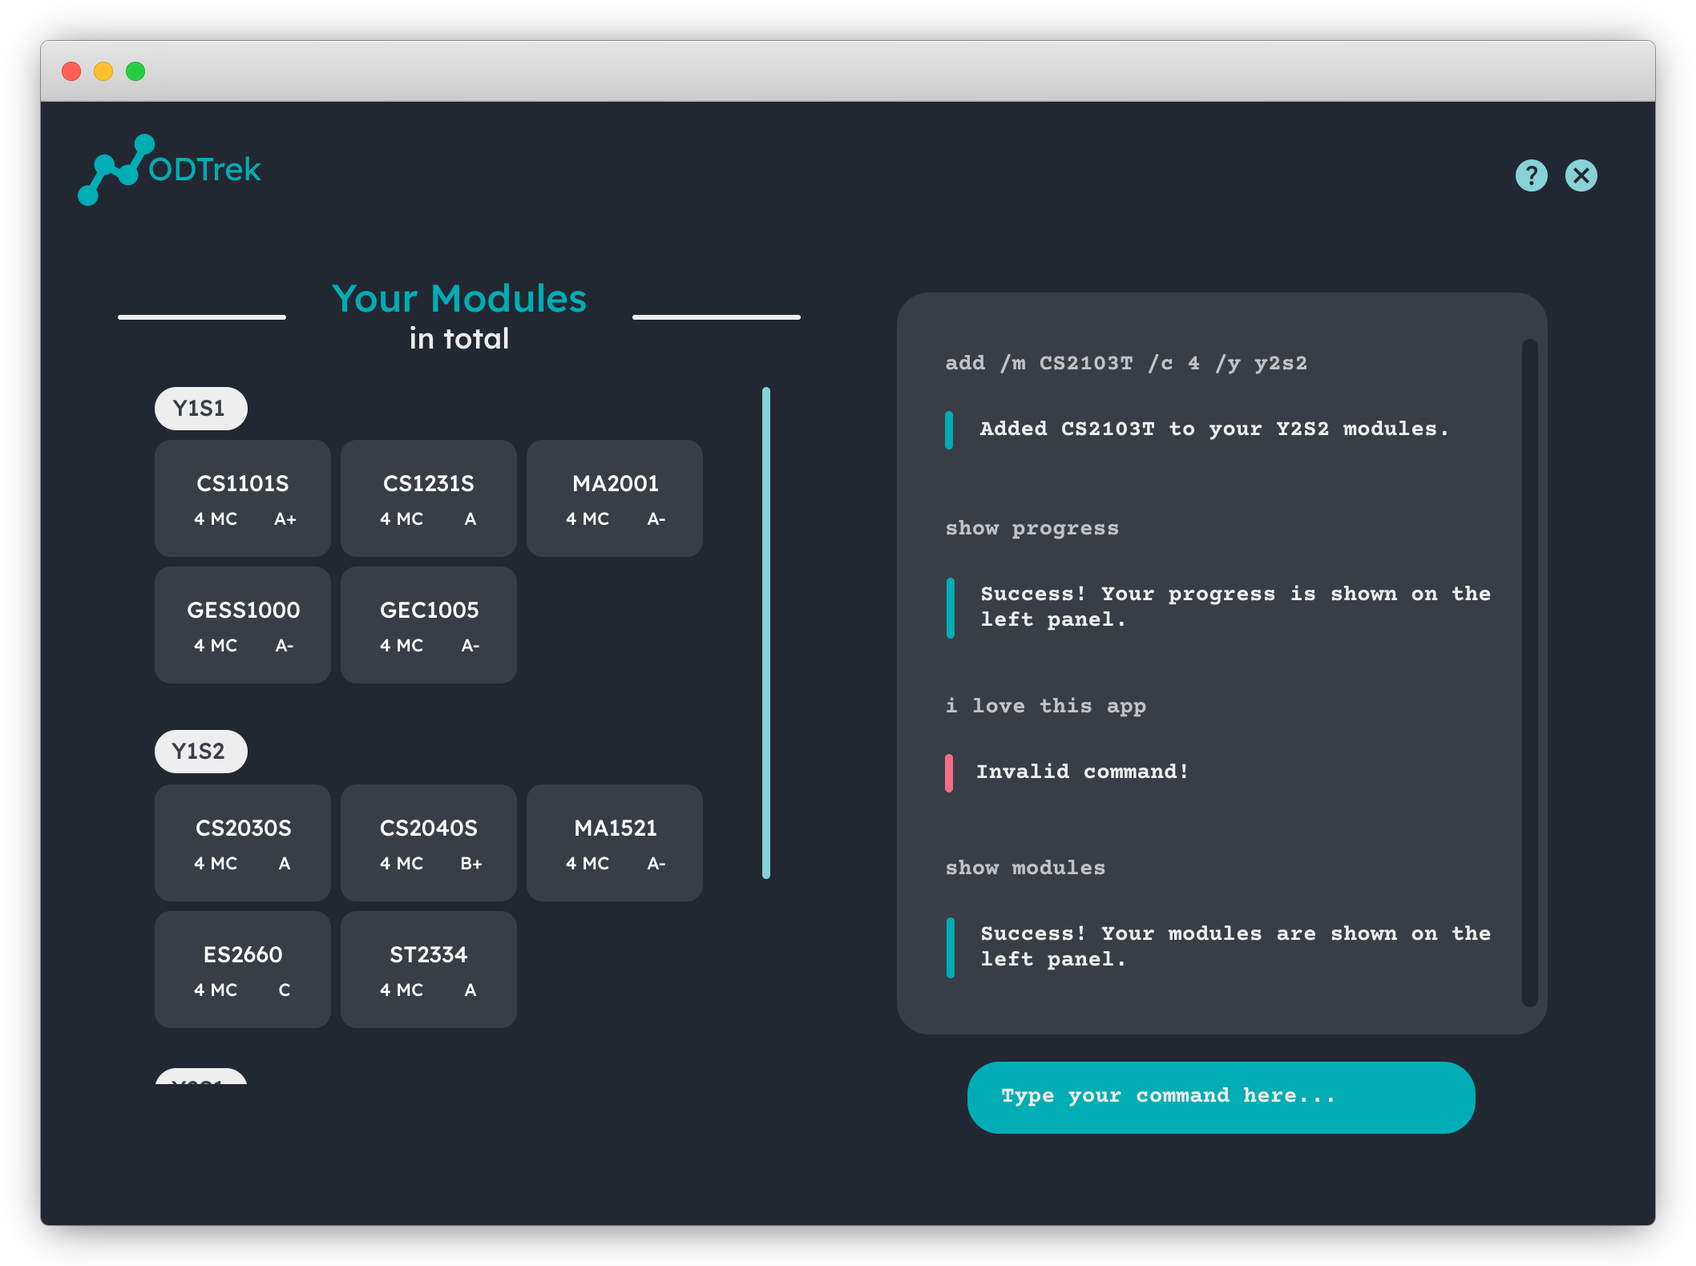
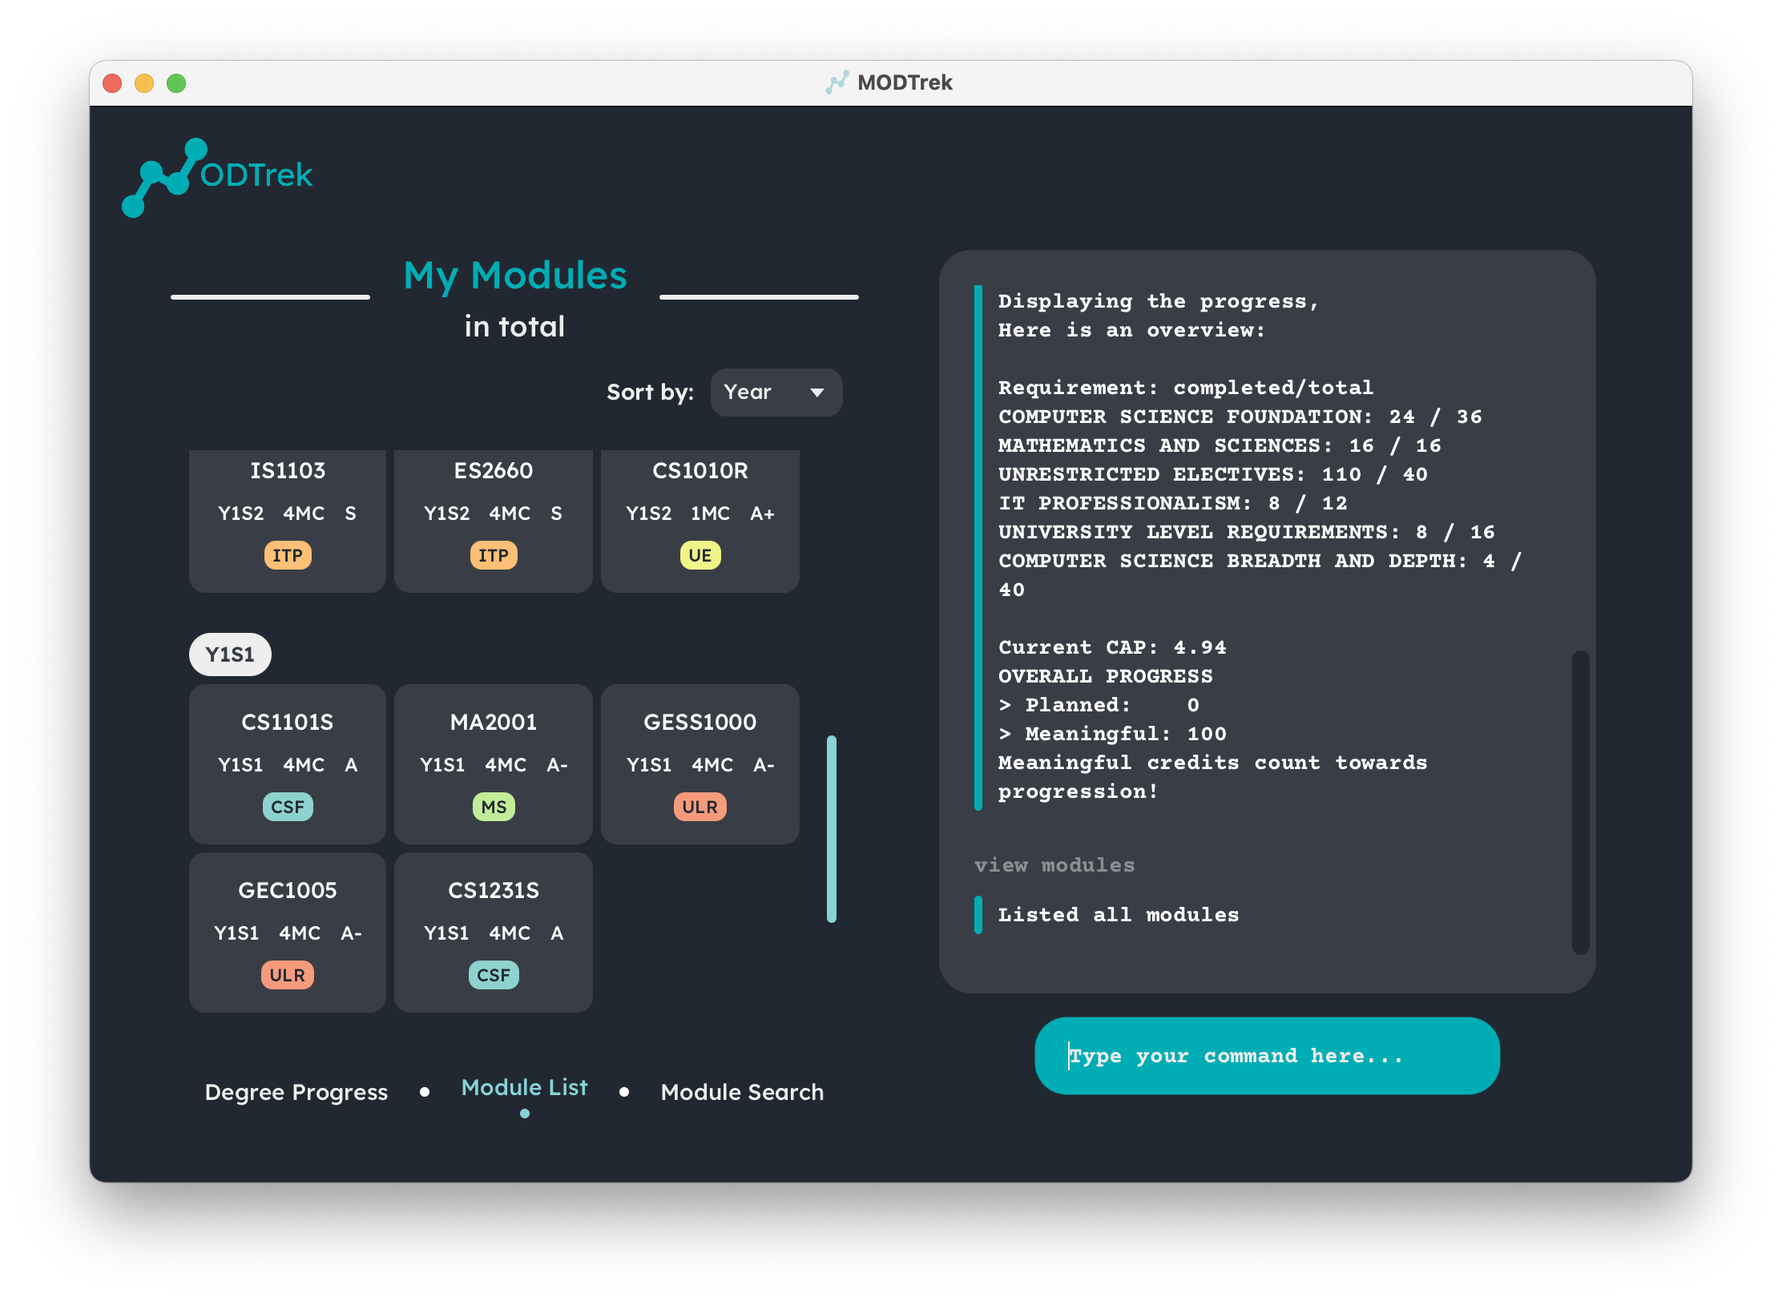
Updated UG content and pictures

diff --git a/docs/UserGuide.md b/docs/UserGuide.md
@@ -6,133 +6,246 @@ title: User Guide
 <br>
 <img src="images/logo.png" width="200px"><br>
 
-ModTrek is a desktop application for managing a typical NUS Computer Science student’s modules and degree progression, optimised for use via a Command Line Interface (CLI). The app provides a convenient platform for students to easily access and update their modules within presses of a keyboard.<br><br>
+**MODTrek** is a desktop application for managing a typical NUS Computer Science student’s modules and degree progression, optimised for use via a Command Line Interface (CLI). The app provides a convenient platform for students to easily access and update their modules within presses of a keyboard.<br><br>
 
 --------------------------------------------------------------------------------------------------------------------
 
-## Table of Contents
+## Table of Contents <a name="toc"></a>
 
-1. [Quick Start](#quick-start)
-2. [Features](#features)<br>
-   2.1 [Add a module:](#add-module) `add`<br>
-   2.2 [Remove a/all module:](#delete-module) `delete`<br>
-   2.3 [Change module details:](#edit-module) `edit`<br>
-   2.4 [Tag a module:](#tag-module) `tag`<br>
-   2.5 [Find modules by keyword:](#find-module) `find`<br>
-   2.6 [Sort all modules:](#sort-module) `sort`<br>
-   2.7 [Toggle between module lists and progress:](#change-view) `view`<br>
-   2.8 [Exiting the program:](#exit-app) `exit`<br>
-   2.9 [Saving the data](#save-data)<br>
-   2.10 [Editing the data file](#edit-data)
-3. [Frequently Asked Questions (FAQ)](#faq)
-4. [Command Summary](#command-summary)
+1. [How To Use This Guide](#how-to)
+2. [Quick Start](#quick-start)
+3. [GUI Overview](#gui-overview)
+4. [Features](#features)<br>
+   4.1 [Add a module:](#add-module) `add`<br>
+   4.2 [Remove a/all module:](#delete-module) `delete`<br>
+   4.3 [Change module details:](#edit-module) `edit`<br>
+   4.4 [Tag a module:](#tag-module) `tag`<br>
+   4.5 [Find modules by keyword:](#find-module) `find`<br>
+   4.6 [Sort all modules:](#sort-module) `sort`<br>
+   4.7 [Toggle between module lists and progress:](#change-view) `view`<br>
+   4.8 [Exiting the program:](#exit-app) `exit`<br>
+   4.9 [Saving the data](#save-data)<br>
+   4.10 [Editing the data file](#edit-data)
+5. [Frequently Asked Questions (FAQ)](#faq)
+6. [Command Summary](#command-summary)
 
 --------------------------------------------------------------------------------------------------------------------
 
-## 1. Quick Start <a name="quick-start"></a>
+## 1. How to Use This Guide <a name="how-to"></a>
+
+Not sure how you can begin using **MODTrek**? This user guide will give you all the information you will need so
+that you can utilise **MODTrek** to its full potential.
+
+To get started, we have prepared a [Quick Start](#quick-start) section in this user guide to ensure that you will
+have a seamless setting up process.
+
+You can also familiarize yourself with the GUI in our [GUI Overview](#gui-overview) section where you will get a 
+quick breakdown of our GUI.
+
+Not sure what features **MODTrek** has or how to use them? Our [Features](#features) section provides an in depth
+explanation of **MODTrek** can do and how you can use them effectively. Alternatively, you can go to our [Command Summary](#command-summary)
+section for a quick overview of all the commands.
+
+Commonly asked questions and answers can be found in our [FAQ](#faq) but if you can still unable to find what you are
+looking for, feel free to contact us at our [GitHub](https://github.com/AY2223S2-CS2103T-T13-1/tp).
+
+Before going any further, here are some useful notations that you should know.
+
+**Tips**
+
+Tips are useful suggestions that will help you become a seasoned sprINT user more quickly.
+
+<div markdown="span" class="alert alert-primary">
+
+:bulb: **Tip:** Tips are useful information. They can give you a better experience with sprINT.
+</div>
+
+**Notes**
+
+Notes are important information that you should pay attention to when using sprINT.
+
+<div markdown="span" class="alert alert-info">
+
+:information_source: **Note:** Take notes when you see this icon.
+</div>
+
+**Caution**
+
+Cautions are in place to warn you of potential pitfalls new users may encounter.
+
+<div markdown="span" class="alert alert-warning">
+
+:exclamation: **Caution:** Stop and read carefully when you see this!
+</div>
+
+[Back to Table of Contents](#toc)
+
+--------------------------------------------------------------------------------------------------------------------
+
+## 2. Quick Start <a name="quick-start"></a>
 
 1. Ensure you have Java 11 or above installed in your Computer.
-1. Download `modtrek.jar` here. (To be inserted)
-1. Copy the file to the folder you want to use as the _home folder_ for ModTrek
-1. Open a command terminal, `cd` to the folder you put your jar file in, and use<br>`java -jar modtrek.jar` to run the application
-1. A GUI similar to the below should appear in a few seconds.
-1. Type commands within the command line interface (CLI) and press enter to execute it. For a list of executable commands, refer to the [Features / Commands Section](#features).
-![Ui QuickStart](images/Ui-quickstart2.png)
+2. Download `modtrek.jar` [here](https://github.com/AY2223S2-CS2103T-T13-1/tp/releases).
+3. Copy the file to the folder you want to use as the _home folder_ for **MODTrek**.
+4. Lauch the app by double-clicking the file or by navigating to the file using your command terminal, and
+running `java -jar modtrek.jar` in your terminal. 
+5. A GUI similar to the below should appear in a few seconds. ![Ui QuickStart](images/Ui-quickstart2.png)
+6. Type commands within the command line interface (CLI) and press enter to execute it. For a list of executable commands, refer to the [Features](#features) section.
+
+[Back to Table of Contents](#toc)
 
 --------------------------------------------------------------------------------------------------------------------
 
-## 2. Features <a name="features"></a>
+## 3. GUI Overview <a name="gui-overview"></a>
+
+The following is an annotated breakdown of **MODtrek's** GUI:
+![UI Breakdown](images/Ui-breakdown.png)
+
+1. Command Input: User inputs commands here.
+2. Command Screen: Relevant messages from the application will be displayed here. This includes success messages, error
+messages and results from the commands. 
+3. Results Section: This panel shows the degree progression of the user by default. This panel can be changed using the `view` command
+to toggle between the module list in **MODTrek** or the user's degree progression as well as using the `sort` and `find` command when making 
+a query on the module list.
+
+[Back to Table of Contents](#toc)
+
+--------------------------------------------------------------------------------------------------------------------
+
+## 4. Features <a name="features"></a>
 
 <div markdown="block" class="alert alert-info">
 
-**Notes about command format:**<br>
-- Words enclosed by `<>` are the parameters to be supplied by the user.<br>
-   - E.g. in `add /m <code> /c <credits> /y <year-semester> /g <grade> /t <tag>...`, `<code>`, `<credits>`, `<year-semester>`, `<grade>`, `<tag>` are parameters which can be used as `add /m CS2103T /c 4 /y Y2S2 /g A+ /t University Level Requirements /t Computer Science Foundation`
-- Extraneous parameters for commands that do not take in parameters (such as `list`, `exit` and `delete all`) will be ignored.
-- Parameters encapsulated in between brackets ('()') are optional.
+:information_source: **Notes about command format:**<br>
+
+* Words enclosed by `<>` are the parameters to be supplied by the user.<br>
+E.g. in `add /m <code>`, `<code>` is a parameter which can be replaced by `CS2030S` to give the command `add /m CS2030S`.
+  
+* Parameters encapsulated in between round brackets are optional.<br>
+E.g. in `delete /m <code1> (/m <code2>)` can be used as `delete /m CS1101S /m CS1231` or as `delete /m CS1101S`.
+
+* Parameters with `...` after them can be used 1 or more times.<br>
+E.g. in `(/t <tag>...)` can be used as `/t ULR /t CSF`, `/t ULR`.
+
+* Extraneous parameters for commands that do not take in parameters (such as `list`, `exit` and `delete all`) will be ignored.
+E.g. if the command specifies `list 123`, it will be interpreted as `list`
 </div>
 
 ### MODTrek supports the following features:
 
-#### 2.1 Add a Module : `add` <a name="add-module"></a>
+#### 4.1 Add a Module : `add` <a name="add-module"></a>
 
 Adds a module to the module list. Modules must be distinct.
 
-**Command syntax:** `add /m <code> /c <credits> /y <year-semester> (/g <grade>) (/t <tag>...)`
+**Syntax:** `add /m <code> /c <credits> /y <year-semester> (/g <grade>) (/t <tag>...)`
 
 Additional details:
 * `<code>` refers to the module code
 * `<credits>` refers to the module's modular credits
-* `<year-semester>` refers to the year and semester the module is taken. E.g y1s2, y3st1
+* `<year-semester>` refers to the year and semester the module is taken. E.g. y1s2, y3st1
 * `<grade>` refers to the grade obtained for the module. Range from A+ to U.
-* `<tag>` refers to the requirement the modules fulfils.<br> This includes:
+* `<tag>` refers to the requirement the modules fulfils. This includes:
    * `ULR` University Level Requirements
    * `CSF` Computer Science Foundations
    * `CSBD` Computer Science Breadth & Depth
    * `UE` Unrestricted Electives
    * `ITP` IT Professionalism
    * `MS` Math & Science
-   
-:exclamation: For `...`, specify one or more tags to be added, separated by space (' ').
 
-**Example:** `add /m CS2103T /c 4 /y y2s2 /g A /t ULR`
+<div markdown="span" class="alert alert-primary">
 
-#### 2.2 Delete a Module : `delete` <a name="delete-module"></a>
+:bulb: **Tip:** A module can have more than 1 tags (including 0).
+</div>
+
+**Example:** 
+* `add /m CS2103T /c 4 /y y2s2 /g A /t ULR`
+* `add /m GESS1025 /c 4 /y y1s2`
+
+[Back to Table of Contents](#toc)
+
+#### 4.2 Delete a Module : `delete` <a name="delete-module"></a>
 
 Deletes all/the specified module(s) from the module list.
 
-**Command syntax:** <br><br>_To delete specific modules:_ `delete /m <code1> (/m <code2>) ...` <br><br> :exclamation: For `...`, specify one or more module codes of modules to be deleted, separated by space (' '). <br><br>_To delete all modules:_ `delete all`
+**Syntax:**
+* _To delete specific modules:_ `delete /m <code1> (/m <code2>...)`
+* _To delete all modules:_ `delete all`
 
-**Example:** `delete /m CS2100 /m CS2040S`
+<div markdown="span" class="alert alert-primary">
 
-#### 2.3 Edit a Module : `edit` <a name="edit-module"></a>
+:bulb: **Tip:** You can use the same instance of the delete command to delete more than 1 module at a time but at least
+1 module to be deleted must be specified.
+</div>
+
+**Example:** 
+* `delete /m CS2100 /m CS2040S`
+* `delete /m MA1521`
+* `delete all`
+
+[Back to Table of Contents](#toc)
+
+#### 4.3 Edit a Module : `edit` <a name="edit-module"></a>
 
 Edits an existing module in the module list.
 
-**Command syntax:** `edit <code> ...`
+**Syntax:** `edit <existing code> <toEdit>...`
 
-_Specify one or more parameters in_ `...` :
+Specify one or more parameters in `<toEdit>` that you want to edit. This can be:
 * `/m <new code>`
-* `/c <credits>`
+* `/c <credit>`
 * `/y <year-semester>`
 * `/g <grade>`
 * `/t <tag>`
 
-**Example:** `edit ES2660 /m CS2101 /g B+`
+<div markdown="span" class="alert alert-warning">
 
 :exclamation: Past data will be overridden and not be saved
+</div>
 
-#### 2.4 Tag a Module : `tag` <a name="tag-module"></a>
+**Example:** 
+* `edit ES2660 /m CS2101 /g B+ /t MS`
+* `edit CS2107 /y y3s1`
+
+[Back to Table of Contents](#toc)
+
+#### 4.4 Tag a Module : `tag` <a name="tag-module"></a>
 
 Tags a module to include or remove one or more degree requirements (e.g. University Level Requirements, Computer Science Foundation etc) that the module fulfils.<br>
-Refer to [2.1 Add a module](#add-module) for the available tags.
+Refer to [Add a module](#add-module) for the tags that you can use.
 
-**Command syntax:**
-* _To include tags:_ `tag /m <code> include <tag1> (<tag2>) ...`
-* _To remove tags:_ `tag /m <code> remove <tag1> (<tag2>) ...`
-
-:exclamation: For `...`, specify one or more tags to be included or removed, separated by space (' ').
+**Syntax:**
+* _To include tags:_ `tag <code> include <tag1> (<tag2>...)`
+* _To remove tags:_ `tag <code> remove <tag1> (<tag2>...)`
 
 **Example:**
 * `tag CS2030S include CSF`
 * `tag ES2660 remove ULR ITP`
 
-#### 2.5 Find modules by keyword : `find` <a name="find-module"></a>
+[Back to Table of Contents](#toc)
 
-Displays specific module(s) satisfying the search query (by code, credits, year-semester, and/or grade) and their details previously logged by the user.
+#### 4.5 Find modules by keyword(s) : `find` <a name="find-module"></a>
 
-**Command syntax:** `find (/m <code>) (/c <credits>) (/y <year-semester>) (/g <grade>)`
+Displays specific module(s) and their details previously logged by the user which satisfies the keyword(s) queried.
+
+**Syntax:** `find (/m <code>) (/c <credits>) (/y <year-semester>) (/g <grade>)`
+
+<div markdown="span" class="alert alert-primary">
+
+:bulb: **Tip:** Using more keywords will filter the results you want to find further.
+</div>
 
 **Example:**
 * `find /c 4 /g A+`
 * `find /y y2s2`
-* `find /m cs /g A+` ![Ui Find](images/Ui-find.png)
+* `find /m cs /g A+` ![Ui Find](images/Ui-find3.png)
 
-#### 2.6 Sort all modules : `sort` <a name="sort-module"></a>
+[Back to Table of Contents](#toc)
+
+#### 4.6 Sort all modules : `sort` <a name="sort-module"></a>
 
 Sort the modules according to the category indicated by the user.
 
-**Command syntax:** `sort <category>`
+**Syntax:** `sort <category>`
 
 Categories that modules can be sorted by are:
 * `/m` to sort by module code
@@ -144,31 +257,41 @@ Categories that modules can be sorted by are:
 **Example:** `sort /g`
 ![Ui Sort](images/Ui-sort.png)
 
-#### 2.7 Toggle screens : `view` <a name="change-view"></a>
+[Back to Table of Contents](#toc)
 
-Toggles between the display of module progress or module lists.
+#### 4.7 Toggle screens : `view` <a name="change-view"></a>
 
-**Command syntax:**
-* _To view module progression:_ `view progress` ![Ui progress](images/Ui-viewprogress.png)
+Toggles between the display of degree progress or module lists.
+
+**Syntax:**
+* _To view degree progression:_ `view progress` ![Ui progress](images/Ui-viewprogress.png)
 * _To view module list:_ `view modules` ![Ui modules](images/Ui-viewmodules.png)
 
-#### 2.8 Exit MODTrek : `exit` <a name="exit-app"></a>
+[Back to Table of Contents](#toc)
+
+#### 4.8 Exit MODTrek : `exit` <a name="exit-app"></a>
 
 Exits the program. Alternatively you can exit the program by clicking the top-right X button to close the window.
 
-**Command syntax:** `exit`
+**Syntax:** `exit`
 
-#### 2.9 Saving MODTrek data <a name="save-data"></a>
+[Back to Table of Contents](#toc)
+
+#### 4.9 Saving MODTrek data <a name="save-data"></a>
 
 Saves the modified data regarding the modules into the hard disk automatically after any command that changes the data. There is no need to save manually.
 
-#### 2.10 Editing MODTrek data <a name="edit-data"></a>
+[Back to Table of Contents](#toc)
+
+#### 4.10 Editing MODTrek data <a name="edit-data"></a>
 
 ModTrek data is saved as a JSON file [JAR file location]/data/modtrek.json. Advanced users are welcome to update data directly by editing that data file.<br> <br>:warning: **Caution!** If your changes to the data file makes its format invalid, ModTrek will discard all data and start with an empty data file at the next run.
 
+[Back to Table of Contents](#toc)
+
 --------------------------------------------------------------------------------------------------------------------
 
-## 3. Frequently Asked Questions (FAQ) <a name="faq"></a>
+## 5. Frequently Asked Questions (FAQ) <a name="faq"></a>
 
 **Q**: Why is it that I can add in modules not offered in NUS<br>
 **A**: Unfortunately we do not have a database to store all the available modules in NUS.
@@ -178,23 +301,28 @@ are provided only by NUS.
 **Q**: Why are the old terms (modules, CAP, MCs) used when referring to modules information<br>
 **A**: We used these terms to specifically cater to our target audience, who are CS students students matriculated in AY 21/22.
 
+[Back to Table of Contents](#toc)
+
 --------------------------------------------------------------------------------------------------------------------
 
-## 4. Command Summary <a name="command_summary"></a>
+## 6. Command Summary <a name="command_summary"></a>
 
+| Action                   | Format, Examples                                                                                                                                          |
+|--------------------------|-----------------------------------------------------------------------------------------------------------------------------------------------------------|
+| **Add**                  | `add /m <code> /c <credits> /y <year-semester> (/g <grade>) (/t <tag>...)`<br> e.g., `add /m CS2103T /c 4 /y y2s2 /g A /t ULR`                            |
+| **Delete**               | `delete /m <code1> (/m <code2>...)` or `delete all`<br> e.g. `delete /m CS2100 /m CS2040S`                                                                |
+| **Edit**                 | `edit <existing code> (/m <new code>) (/c <credits>) (/y <year-semester>) (/g <grade>) (/t <tag>...)` <br> e.g., `edit ES2660 /m CS2101`                  |
+| **Tag**                  | `tag /m <code> include <tag1> (<tag2>...)` or `tag /m <code> remove <tag1> (<tag2>...)` <br> e.g., `tag CS2030S include CSF`, `tag ES2660 remove ULR ITP` |
+| **Find**                 | `find (/m <code>) (/c <credits>) (/y <year-semester>) (/g <grade>)` <br> e.g., `find A+`                                                                  |
+| **Sort**                 | `sort <category>`<br> e.g. `sort /m`                                                                                                                      |
+| **View Degree Progress** | `view progress` or `view modules`                                                                                                                         |
+| **Exit**                 | `exit`                                                                                                                                                    |
 
-| Action                   | Format, Examples                                                                                                                                            |
-|--------------------------|-------------------------------------------------------------------------------------------------------------------------------------------------------------|
-| **Add**                  | `add /m <code> /c <credits> /y <year-semester> (/g <grade>) (/t <tag>...)` <br> e.g., `add /m CS2103T /c 4 /y y2s2 /g A /t ULR`                             |
-| **Delete**               | `delete /m <code1> (/m <code2>) ...` or `delete all` <br> e.g. `delete /m CS2100 /m CS2040S`                                                                |
-| **Edit**                 | `edit <existing code> (/m <new code>) (/c <credits>) (/y <year-semester>) (/g <grade>) (/t <tag>...)` <br> e.g., `edit ES2660 /m CS2101`                    |
-| **Tag**                  | `tag /m <code> include <tag1> (<tag2>) ...` or `tag /m <code> remove <tag1> (<tag2>) ...` <br> e.g., `tag CS2030S include CSF`, `tag ES2660 remove ULR ITP` |
-| **Find**                 | `find (/m <code>) (/c <credits>) (/y <year-semester>) (/g <grade>)` <br> e.g., `find A+`                                                                    |
-| **Sort**                 | `sort <category>` e.g. `sort /m`                                                                                                                            |
-| **View Degree Progress** | `view progress` or `view modules`                                                                                                                           |
-| **Exit**                 | `exit`                                                                                                                                                      |
+<div markdown="span" class="alert alert-info">
 
+:information_source: **Note:** 
+* Parameters encapsulated in between brackets `()` are optional.
+* For `edit`, at least one optional parameter has to be specified.
+</div>
 
-<br>**Notes:**
-- Parameters encapsulated in between brackets `()` are optional.
-- For `edit`, at least one optional parameter has to be specified.
+[Back to Table of Contents](#toc)
